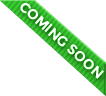
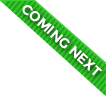
comming next items, warnings remove

Changed region(s): [[0.0, 0.0, 1.0, 1.0]]

diff --git a/MultiWii/ViewControllers/Functionality/Connect/MWConnectViewController.m b/MultiWii/ViewControllers/Functionality/Connect/MWConnectViewController.m
@@ -83,7 +83,7 @@
         NSLog(@"%@", err);
         if (err.code == 1002)
         {
-            int connectedIndex = [BLUETOOTH_MANAGER.deviceList indexOfObject:BLUETOOTH_MANAGER.currentConnectedDevice];
+            int connectedIndex = (int)[BLUETOOTH_MANAGER.deviceList indexOfObject:BLUETOOTH_MANAGER.currentConnectedDevice];
             [self setSpinnerHidden:YES forDeviceAtIndex:connectedIndex animated:YES];
 
         }
@@ -107,7 +107,7 @@
 
 -(void) didConnectBluetoothUart
 {
-    int connectedIndex = [BLUETOOTH_MANAGER.deviceList indexOfObject:BLUETOOTH_MANAGER.currentConnectedDevice];
+    int connectedIndex = (int)[BLUETOOTH_MANAGER.deviceList indexOfObject:BLUETOOTH_MANAGER.currentConnectedDevice];
     [self setSpinnerHidden:YES forDeviceAtIndex:connectedIndex animated:YES];
     MWDevicePreviewCell* cell = (MWDevicePreviewCell*)[self.tableView cellForRowAtIndexPath:[NSIndexPath indexPathForRow:connectedIndex inSection:0]];
     cell.titleLabel.textColor = [UIColor greenColor];
@@ -225,7 +225,7 @@
         if (!deviceName)
             deviceName = [BLUETOOTH_MANAGER metaDataForDevice:device][@"kCBAdvDataLocalName"];
         [Flurry logEvent:[NSString stringWithFormat:@"Connect to device : %@", deviceName]];
-        [self setSpinnerHidden:NO forDeviceAtIndex:indexPath.row animated:YES];
+        [self setSpinnerHidden:NO forDeviceAtIndex:(int)indexPath.row animated:YES];
         [BLUETOOTH_MANAGER connectToDevice:device];
     }
     else

diff --git a/MultiWii/Views/Cells/MenuTableViewCell/MWMainMenuCell.m b/MultiWii/Views/Cells/MenuTableViewCell/MWMainMenuCell.m
@@ -9,7 +9,10 @@
 #import "MWMainMenuCell.h"
 
 @implementation MWMainMenuCell
-
+{
+    UIView* _dimGrayView;
+    UIImageView* _ribbonView;
+}
 @synthesize title = _title;
 
 +(NSString*) cellId
@@ -37,5 +40,36 @@
 -(NSString *)title
 {
     return _title;
+}
+
+
+
+-(void)setCommingsoon:(BOOL)commingsoon
+{
+    if (commingsoon && !_commingsoon)
+    {
+        if (!_dimGrayView)
+        {
+            _dimGrayView = [[UIView alloc] init];
+            _ribbonView = [[UIImageView alloc] initWithImage:[UIImage imageNamed:@"ribbon_green.png"]];
+        }
+        _dimGrayView.backgroundColor = [UIColor blackColor];
+        _dimGrayView.frame = self.bounds;
+        _dimGrayView.alpha = 0.3;
+        _ribbonView.left = self.width - _ribbonView.width;
+        _ribbonView.top = 0;
+
+        [self addSubview:_dimGrayView];
+        [self addSubview:_ribbonView];
+    }
+    
+    if (!commingsoon && _commingsoon)
+    {
+        [_dimGrayView removeFromSuperview];
+    }
+    
+    _commingsoon = commingsoon;
+    self.arrowImageView.hidden = commingsoon;
+    self.selectionStyle = commingsoon ? UITableViewCellSelectionStyleNone : UITableViewCellSelectionStyleDefault;
 }
 @end

diff --git a/MultiWii/ViewControllers/Functionality/AUX/MWAuxSelectViewController.m b/MultiWii/ViewControllers/Functionality/AUX/MWAuxSelectViewController.m
@@ -211,7 +211,7 @@
 
 - (NSInteger)tableView:(UITableView *)tableView numberOfRowsInSection:(NSInteger)section
 {
-    _savedSelectedSegmentIndex = self.segmentControlForAuxChannel.selectedSegmentIndex;
+    _savedSelectedSegmentIndex = (int)self.segmentControlForAuxChannel.selectedSegmentIndex;
     return [[MWGlobalManager sharedInstance].boxManager boxesCount];
 }
 
@@ -219,9 +219,9 @@
 - (UITableViewCell *)tableView:(UITableView *)tableView cellForRowAtIndexPath:(NSIndexPath *)indexPath
 {
     MWAUXCheckBoxCell* cell = [MWAUXCheckBoxCell loadView];
-    MWBoxAuxSettingEntity* box = [[MWGlobalManager sharedInstance].boxManager boxEntityForIndex:indexPath.row];
+    MWBoxAuxSettingEntity* box = [[MWGlobalManager sharedInstance].boxManager boxEntityForIndex:(int)indexPath.row];
     cell.data = box;
-    cell.selectedAuxChannel = self.segmentControlForAuxChannel.selectedSegmentIndex;
+    cell.selectedAuxChannel = (int)self.segmentControlForAuxChannel.selectedSegmentIndex;
 
     return cell;
 }

diff --git a/MultiWii/BluetoothLogic/Core/MWBluetoothManager.m b/MultiWii/BluetoothLogic/Core/MWBluetoothManager.m
@@ -473,7 +473,7 @@ characteristicUUID:(CBUUID *)characteristicUUID
     {
         if ([characteristic.UUID isEqual:[CBUUID UUIDWithString:@BLE_DEVICE_RX_UUID]])
         {
-            data_len = characteristic.value.length;
+            data_len = (int)characteristic.value.length;
             NSLog(@"%d bits of new data", data_len);
             [characteristic.value getBytes:data length:data_len];
             
@@ -505,7 +505,7 @@ characteristicUUID:(CBUUID *)characteristicUUID
         }
         else if ([characteristic.UUID isEqual:[CBUUID UUIDWithString:@BLE_DEVICE_VENDOR_NAME_UUID]])
         {
-            data_len = characteristic.value.length;
+            data_len = (int)characteristic.value.length;
             [characteristic.value getBytes:_vendor_name length:data_len];
 //            NSLog(@"Vendor: %s", _vendor_name);
         }

diff --git a/MultiWii/ViewControllers/Menu/Telemetry/MWTelemetrySubMenuViewController.m b/MultiWii/ViewControllers/Menu/Telemetry/MWTelemetrySubMenuViewController.m
@@ -7,7 +7,7 @@
 //
 
 #import "MWTelemetrySubMenuViewController.h"
-
+#import "MWMainMenuCell.h"
 @interface MWTelemetrySubMenuViewController ()
 
 @end
@@ -22,7 +22,7 @@
 
 -(NSArray*) titlesForMenu
 {
-    return @[@"RADIO"/* & MOTOR"*/, @"ORIENTATION", @"GPS", @"RAW DATA FROM SENSORS", @"BATTERY", @"COMMAND CENTER PANEL"];
+    return @[@"RADIO"/* & MOTOR"*/, @"ORIENTATION", @"GPS", /*@"RAW DATA FROM SENSORS",*/ @"BATTERY"/*, @"COMMAND CENTER PANEL"*/];
 }
 
 -(NSArray*) iconsForMenu
@@ -35,4 +35,10 @@
     return @[@"", @"", @"", @"", @"", @""];
 }
 
+-(UITableViewCell *)tableView:(UITableView *)tableView cellForRowAtIndexPath:(NSIndexPath *)indexPath
+{
+    MWMainMenuCell* cell = (MWMainMenuCell*)[super tableView:tableView cellForRowAtIndexPath:indexPath];
+    cell.commingsoon = indexPath.row > 1;
+    return cell;
+}
 @end

diff --git a/MultiWii/ViewControllers/Menu/MWMenuViewController.m b/MultiWii/ViewControllers/Menu/MWMenuViewController.m
@@ -96,8 +96,8 @@
     }
     
     cell.title = _titlesForCells[indexPath.row];
-    cell.imageViewForIcon.image = [self imageForMenuItemAtIndex:indexPath.row andSelected:NO];
-    cell.selectedImageViewForIcon.image = [self imageForMenuItemAtIndex:indexPath.row andSelected:YES];
+    cell.imageViewForIcon.image = [self imageForMenuItemAtIndex:(int)indexPath.row andSelected:NO];
+    cell.selectedImageViewForIcon.image = [self imageForMenuItemAtIndex:(int)indexPath.row andSelected:YES];
 
 
     return cell;
@@ -121,6 +121,8 @@
         
         [self.tableViewForMenu deselectRowAtIndexPath:indexPath animated:YES];
         [self cantSelectRowAtIndexPath:indexPath];
+        MWMainMenuCell* cell = (MWMainMenuCell*)[tableView cellForRowAtIndexPath:indexPath];
+        cell.commingsoon = YES;
     }
 }
 

diff --git a/MultiWii/Extesions/MKStoreKit/MKStoreKit-master/MKStoreManager.m b/MultiWii/Extesions/MKStoreKit/MKStoreKit-master/MKStoreManager.m
@@ -276,7 +276,7 @@ static MKStoreManager* _sharedStoreManager;
 - (BOOL) removeAllKeychainData {
   
   NSMutableArray *productsArray = [MKStoreManager allProducts];
-  int itemCount = productsArray.count;
+  NSUInteger itemCount = productsArray.count;
   NSError *error;
   
   //loop through all the saved keychain data and remove it
@@ -466,7 +466,7 @@ static MKStoreManager* _sharedStoreManager;
   if ([SKPaymentQueue canMakePayments])
 	{
     NSArray *allIds = [self.purchasableObjects valueForKey:@"productIdentifier"];
-    int index = [allIds indexOfObject:productId];
+    NSUInteger index = [allIds indexOfObject:productId];
     
     if(index == NSNotFound) return;
     

diff --git a/MultiWii/Extesions/MKStoreKit/MKStoreKit-master/MKSKProduct.m b/MultiWii/Extesions/MKStoreKit/MKStoreKit-master/MKSKProduct.m
@@ -183,7 +183,7 @@ static NSMutableData *sDataFromConnection;
     [theRequest setHTTPBody:[json dataUsingEncoding:NSUTF8StringEncoding]];
     [theRequest setHTTPMethod:@"POST"];
     [theRequest setValue:@"application/x-www-form-urlencoded" forHTTPHeaderField:@"Content-Type"];
-    NSString *length = [NSString stringWithFormat:@"%d", [json length]];
+    NSString *length = [NSString stringWithFormat:@"%d", (int)[json length]];
     [theRequest setValue:length forHTTPHeaderField:@"Content-Length"];
     NSHTTPURLResponse* urlResponse = nil;
     NSError *error = [[NSError alloc] init];

diff --git a/MultiWii/Extesions/MKStoreKit/MKStoreKit-master/MKSKSubscriptionProduct.m b/MultiWii/Extesions/MKStoreKit/MKStoreKit-master/MKSKSubscriptionProduct.m
@@ -70,7 +70,7 @@
 	
   NSString *receiptString = [NSString stringWithFormat:@"{\"receipt-data\":\"%@\" \"password\":\"%@\"}", [self.receipt base64EncodedString], kSharedSecret];        
   
-	NSString *length = [NSString stringWithFormat:@"%d", [receiptString length]];	
+	NSString *length = [NSString stringWithFormat:@"%lu", (unsigned long)[receiptString length]];	
 	[theRequest setValue:length forHTTPHeaderField:@"Content-Length"];	
 	
 	[theRequest setHTTPBody:[receiptString dataUsingEncoding:NSUTF8StringEncoding]];

diff --git a/MultiWii/BluetoothLogic/MWBoxSettingsManager.m b/MultiWii/BluetoothLogic/MWBoxSettingsManager.m
@@ -80,7 +80,7 @@
 
 -(NSData*) payloadFromBoxes
 {
-    int size = _boxEntities.count * 2;
+    int size = (int)_boxEntities.count * 2;
     unsigned char bytes[100]; // 100 is magic number
     for (int i = 0; i < 100; i++)
         bytes[i] = 0;
@@ -112,6 +112,6 @@
 
 - (int) boxesCount
 {
-    return _boxEntities.count;
+    return (int)_boxEntities.count;
 }
 @end

diff --git a/MultiWii/BluetoothLogic/Entities/MWSaveableSettingEntity.m b/MultiWii/BluetoothLogic/Entities/MWSaveableSettingEntity.m
@@ -30,7 +30,7 @@ static NSMutableArray* _allObjects; //tricky
 
 +(void) removeObjectFromStore:(MWSaveableSettingEntity*) saveableEntity
 {
-    __block int indToDelete = -1;
+    __block NSUInteger indToDelete = -1;
     
     [_allObjects enumerateObjectsUsingBlock:^(WeakObjectStoreBlock storeBlock, NSUInteger idx, BOOL *stop)
     {

diff --git a/MultiWii/Extesions/SBJson/Classes/SBJsonStreamParser.m b/MultiWii/Extesions/SBJson/Classes/SBJsonStreamParser.m
@@ -112,7 +112,7 @@
 }
 
 - (void)maxDepthError {
-    self.error = [NSString stringWithFormat:@"Input depth exceeds max depth of %u", maxDepth];
+    self.error = [NSString stringWithFormat:@"Input depth exceeds max depth of %lu", (unsigned long)maxDepth];
     self.state = [SBJsonStreamParserStateError sharedInstance];
 }
 
